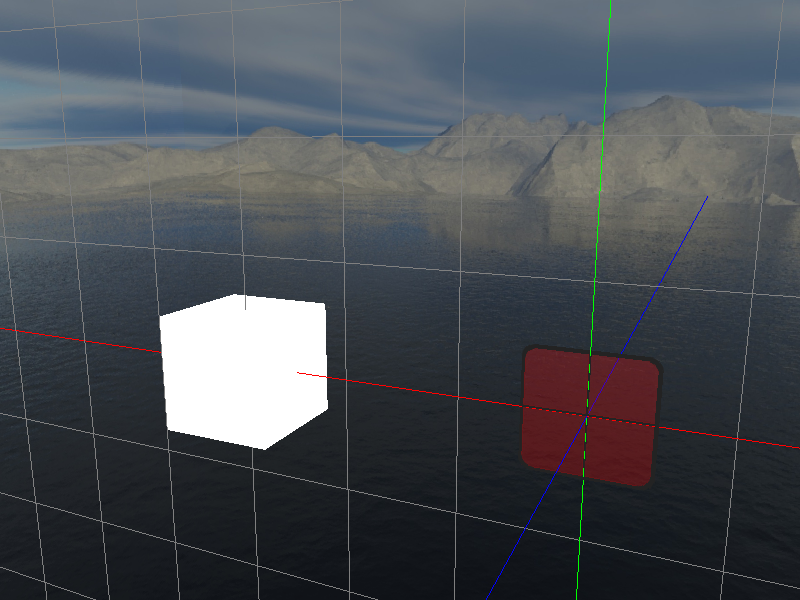
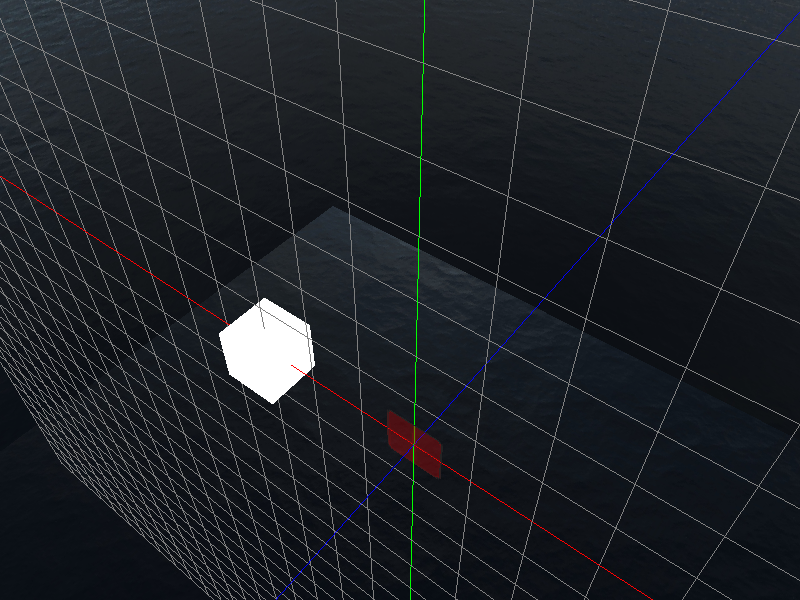
modified README.md

diff --git a/src/World/experiments/calculus.cpp b/src/World/experiments/calculus.cpp
@@ -80,7 +80,7 @@ void calculus::Start() {
     // mesh.RenderMode = RenderMode::SolidWireframe;
     cube.GetComponent<MaterialComponent>().Material = &objectMaterial;
     cube.GetComponent<Transform3DComponent>().Position = { 0, 0, 0 };
-    cube.GetComponent<Transform3DComponent>().Scale = { 50 };
+    cube.GetComponent<Transform3DComponent>().Scale = { 100 };
 
 
     U::Image image = { "Assets/icon.png", true };
@@ -89,6 +89,8 @@ void calculus::Start() {
     // auto& snowflake = resourceManager.Load<Texture2D>("snowflake");
     // snowflake.UseImage(image);
     // objectMaterial.AssignTexture(snowflake, 1);
+
+    // TODO- play rainworld , game i downloaded
 
     auto& cubemap = resourceManager.Load<Cubemap>("cubemap");
     cubemap.InternalFormat = TextureInternalFormat::RGB8;

diff --git a/src/World/Scenes/AssimpScene.cpp b/src/World/Scenes/AssimpScene.cpp
@@ -15,12 +15,9 @@ static void ProcessVertices(std::vector<Vertex>& vertices, const aiMesh* mesh) {
     for (unsigned int v = 0; v < mesh->mNumVertices; v++) {
         M::Vector4 pos = { mesh->mVertices[v].x, mesh->mVertices[v].y, mesh->mVertices[v].z, 1 };
         M::Vector3 normal = { mesh->mNormals[v].x, mesh->mNormals[v].y, mesh->mNormals[v].z };
-        M::Vector2 uv;
+        M::Vector2 uv = { 0, 0 };
         if (mesh->mTextureCoords[0]) {
             uv = { mesh->mTextureCoords[0][v].x, mesh->mTextureCoords[0][v].y };
-        }
-        else {
-            uv = { 0.0f, 0.0f };
         }
         vertices.emplace_back(pos, M::Vector4(1), uv, normal);
     }

diff --git a/src/Math/Matrix/Matrix3.cpp b/src/Math/Matrix/Matrix3.cpp
@@ -181,6 +181,24 @@ bool Matrix3::NearlyEquals(const Matrix3& mat3, const float epsilon) const {
     return true;
 }
 
+Matrix4 Matrix3::ToMatrix4() const {
+    Matrix4 result{};
+
+    result.m[0][0] = m[0][0];
+    result.m[0][1] = m[0][1];
+    result.m[0][2] = m[0][2];
+
+    result.m[1][0] = m[1][0];
+    result.m[1][1] = m[1][1];
+    result.m[1][2] = m[1][2];
+
+    result.m[2][0] = m[2][0];
+    result.m[2][1] = m[2][1];
+    result.m[2][2] = m[2][2];
+
+    return result;
+}
+
 //* Matrices
 Matrix3 Matrix3::operator+(const Matrix3& mat3) const {
     Matrix3 result = Zero;

diff --git a/src/Math/Matrix/Matrix3.hpp b/src/Math/Matrix/Matrix3.hpp
@@ -4,6 +4,8 @@
 #include "Matrix2.hpp"
 
 namespace N::M {
+struct Matrix4;
+
 /**
  * @brief 3x3 floating-point matrix.
  *
@@ -137,6 +139,9 @@ struct Matrix3 {
      * @param epsilon Maximum allowed difference between corresponding elements.
      */
     [[nodiscard]] bool NearlyEquals(const Matrix3& mat3, float epsilon = EPSILON) const;
+
+    /** @brief returns a matrix 4 version of this matrix 3. with all the extra values = 0 */
+    [[nodiscard]] Matrix4 ToMatrix4() const;
 
     Matrix3 operator+(const Matrix3& mat3) const;
     Matrix3 operator-(const Matrix3& mat3) const;

diff --git a/src/Modules/Renderer/Resources/Texture/Texture.cpp b/src/Modules/Renderer/Resources/Texture/Texture.cpp
@@ -39,18 +39,6 @@ void Texture::Bind(const unsigned int unit) {
 
     glActiveTexture(GL_TEXTURE0 + unit);
     glBindTexture(static_cast<GLenum>(Target), Id);
-
-
-    if (Name == "cubemap") {
-        GLint width = 0;
-        GLint height = 0;
-
-        glGetTexLevelParameteriv(GL_TEXTURE_CUBE_MAP_POSITIVE_X, 0, GL_TEXTURE_WIDTH, &width);
-
-        glGetTexLevelParameteriv(GL_TEXTURE_CUBE_MAP_POSITIVE_X, 0, GL_TEXTURE_HEIGHT, &height);
-
-        U::Logger::Info(std::format("Cubemap GPU: {}x{}", width, height));
-    }
 }
 
 void Texture::Unbind(unsigned int unit) {

diff --git a/src/Modules/Renderer/Resources/Texture/Cubemap.cpp b/src/Modules/Renderer/Resources/Texture/Cubemap.cpp
@@ -4,7 +4,7 @@
 
 namespace N {
 void Cubemap::Generate() {
-    // Texture::Generate();
+    Texture::Generate();
     if (IsGenerated()) {
         return;
     }
@@ -39,6 +39,7 @@ void Cubemap::Generate() {
     glTexImage2D(GL_TEXTURE_CUBE_MAP_POSITIVE_X, 0, intern, Width, Height, 0, format, dataType, Right.Pixels.data());
 
     glTexImage2D(GL_TEXTURE_CUBE_MAP_NEGATIVE_X, 0, intern, Width, Height, 0, format, dataType, Left.Pixels.data());
+
     if (AutoMipmaps) {
         glGenerateMipmap(GL_TEXTURE_CUBE_MAP);
     }

diff --git a/src/Modules/Renderer/Systems/CameraSystem.cpp b/src/Modules/Renderer/Systems/CameraSystem.cpp
@@ -69,6 +69,7 @@ M::Matrix4 CameraSystem::GetViewMatrix() {
     M::Vector3 up = transformComponent.GetUp();
 
     M::Matrix4 view = M::Matrix4::LookAt(pos, pos + forward, up);
+    ;
 
     return view;
 }

diff --git a/README.md b/README.md
@@ -101,3 +101,4 @@
 - per mesh face culling configurations
 - redesigned texture system
 - Framebuffers & Renderbuffers
+- Cubemaps
